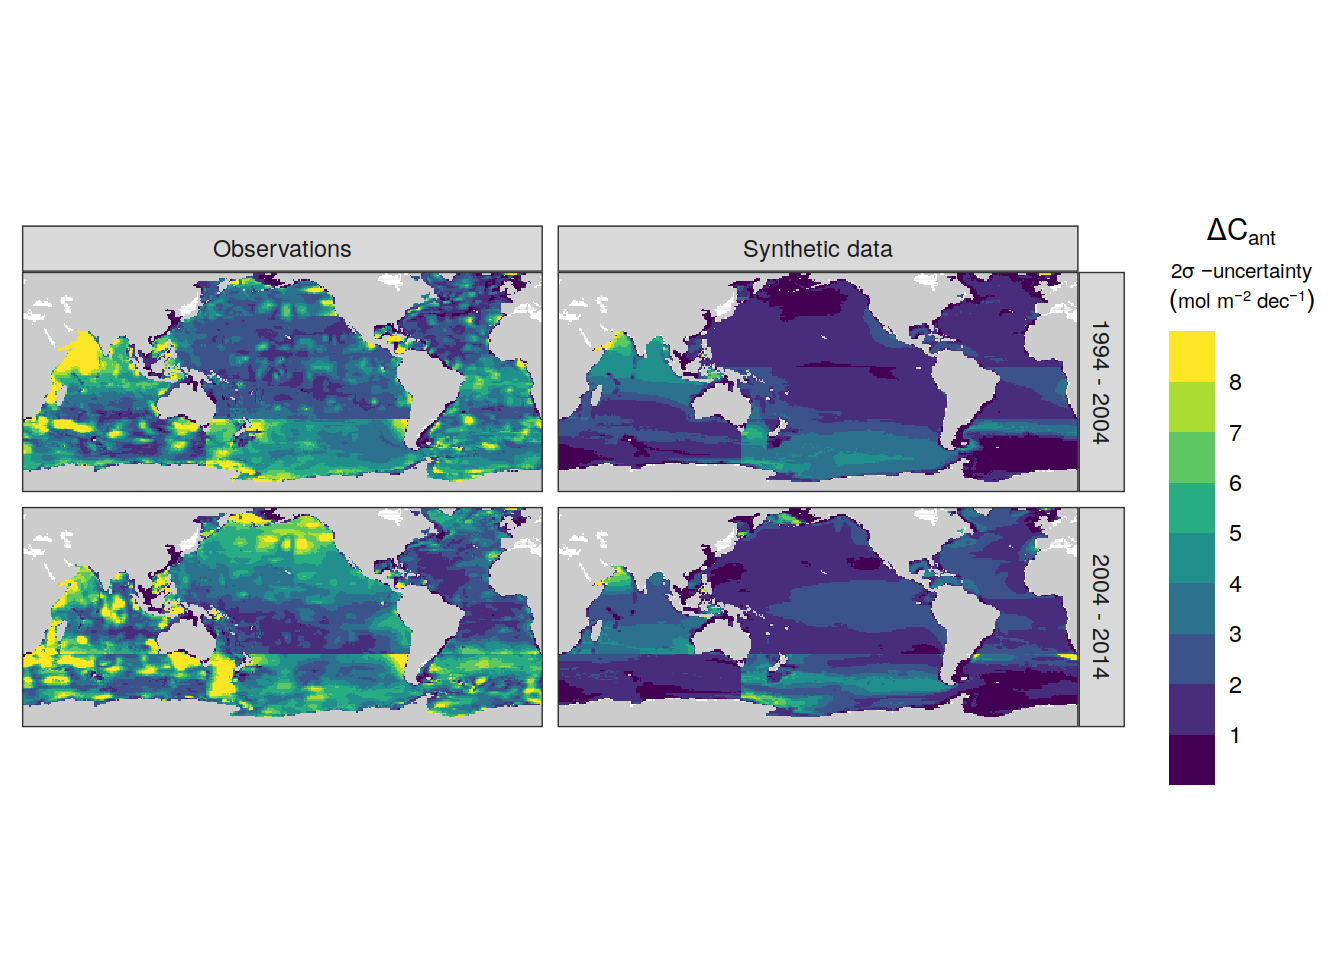
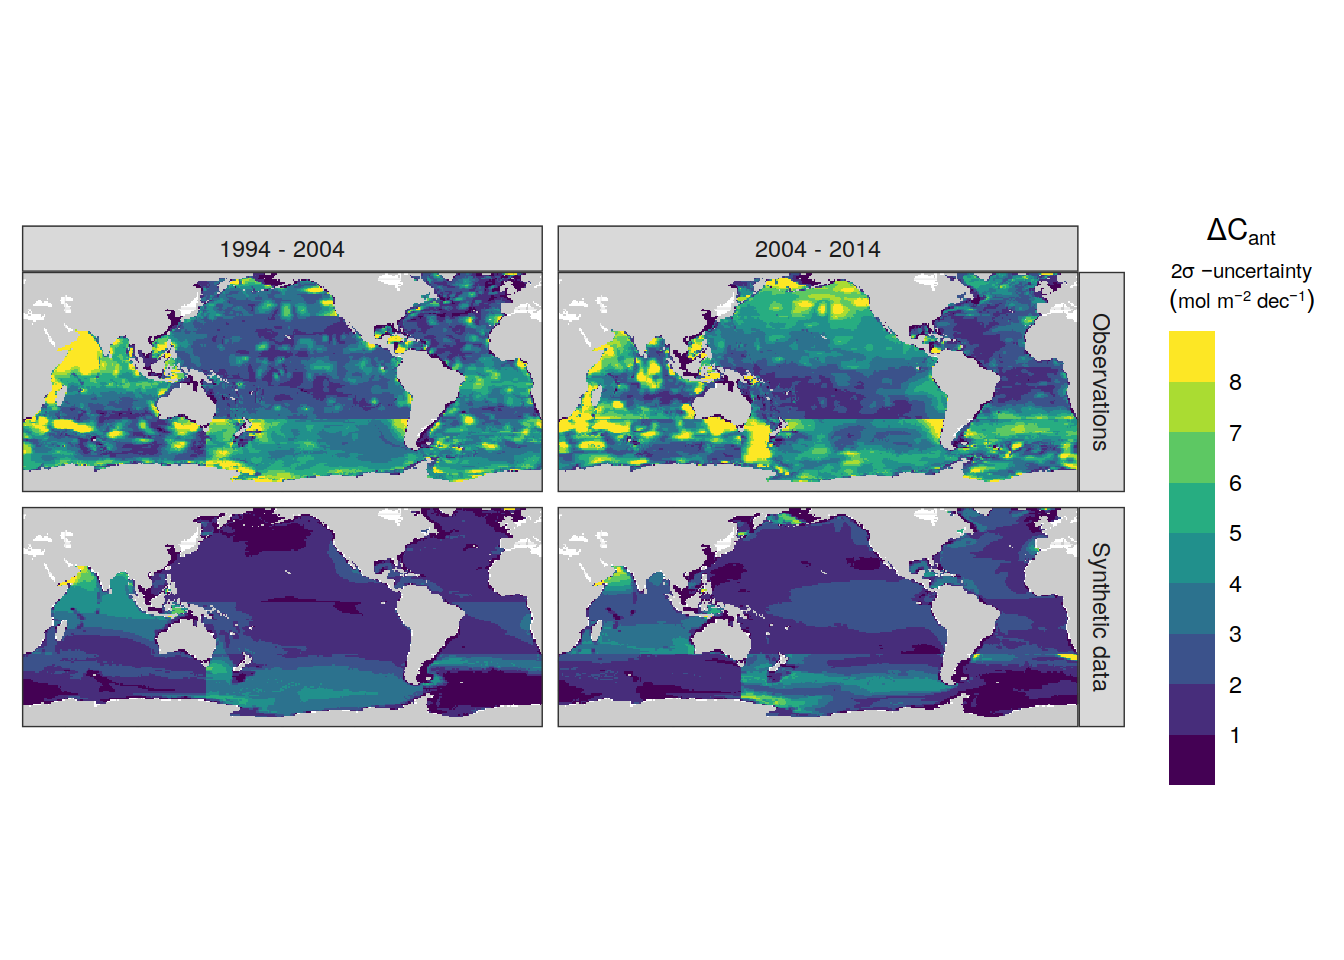
Build site.

diff --git a/docs/results_publication.html b/docs/results_publication.html
@@ -869,15 +869,15 @@ project makes it easier to run your code on other machines.</p>
 <div class="panel panel-default">
 <div class="panel-heading">
 <p class="panel-title">
-<a data-toggle="collapse" data-parent="#workflowr-checks" href="#strongRepositoryversionstrongahrefhttpsgithubcomjensdanielmuelleremlrobsanalysistree71e9efe9c0897f9ea809ff36e48a16f0fe4b48f1targetblank71e9efea">
+<a data-toggle="collapse" data-parent="#workflowr-checks" href="#strongRepositoryversionstrongahrefhttpsgithubcomjensdanielmuelleremlrobsanalysistreea56474cc28333f26fba0a887f823e0b94373ab63targetblanka56474ca">
 <span class="glyphicon glyphicon-ok text-success"
 aria-hidden="true"></span> <strong>Repository version:</strong>
-<a href="https://github.com/jens-daniel-mueller/emlr_obs_analysis/tree/71e9efe9c0897f9ea809ff36e48a16f0fe4b48f1" target="_blank">71e9efe</a>
+<a href="https://github.com/jens-daniel-mueller/emlr_obs_analysis/tree/a56474cc28333f26fba0a887f823e0b94373ab63" target="_blank">a56474c</a>
 </a>
 </p>
 </div>
 <div
[2 lines of base64/hex data omitted]
 class="panel-collapse collapse">
 <div class="panel-body">
 <p>
@@ -887,7 +887,7 @@ reproducibility.
 </p>
 <p>
 The results in this page were generated with repository version
-<a href="https://github.com/jens-daniel-mueller/emlr_obs_analysis/tree/71e9efe9c0897f9ea809ff36e48a16f0fe4b48f1" target="_blank">71e9efe</a>.
+<a href="https://github.com/jens-daniel-mueller/emlr_obs_analysis/tree/a56474cc28333f26fba0a887f823e0b94373ab63" target="_blank">a56474c</a>.
 See the <em>Past versions</em> tab to see a history of the changes made
 to the R Markdown and HTML files.
 </p>
@@ -963,6 +963,40 @@ Message
 </tr>
 </thead>
 <tbody>
+<tr>
+<td>
+Rmd
+</td>
+<td>
+<a href="https://github.com/jens-daniel-mueller/emlr_obs_analysis/blob/a56474cc28333f26fba0a887f823e0b94373ab63/analysis/results_publication.Rmd" target="_blank">a56474c</a>
+</td>
+<td>
+jens-daniel-mueller
+</td>
+<td>
+2022-11-17
+</td>
+<td>
+new emissions uncertainty
+</td>
+</tr>
+<tr>
+<td>
+html
+</td>
+<td>
+<a href="https://rawcdn.githack.com/jens-daniel-mueller/emlr_obs_analysis/f39bfd49afe8c3ec4b0285e75f1e7620b19a3a4e/docs/results_publication.html" target="_blank">f39bfd4</a>
+</td>
+<td>
+jens-daniel-mueller
+</td>
+<td>
+2022-11-17
+</td>
+<td>
+Build site.
+</td>
+</tr>
 <tr>
 <td>
 Rmd
@@ -9146,7 +9180,7 @@ dcant_inv_uncertainty %&gt;%
   p_map_cant_inv(var = &quot;sd&quot;,
                  breaks = c(seq(0, 8, 1), Inf),
                  title_text = NULL) +
-  facet_grid(period ~ data_source) +
+  facet_grid(data_source ~ period) +
   theme(axis.text = element_blank(),
         axis.ticks = element_blank())</code></pre>
 <p><img src="figure/results_publication.Rmd/column_inventory_additive_uncertainty_fine_grid-1.png" width="672" style="display: block; margin: auto;" /></p>
@@ -23164,6 +23198,17 @@ Date
 <tbody>
 <tr>
 <td>
+<a href="https://github.com/jens-daniel-mueller/emlr_obs_analysis/blob/f39bfd49afe8c3ec4b0285e75f1e7620b19a3a4e/docs/figure/results_publication.Rmd/dcant_inventory_uncertainty_components-1.png" target="_blank">f39bfd4</a>
+</td>
+<td>
+jens-daniel-mueller
+</td>
+<td>
+2022-11-17
+</td>
+</tr>
+<tr>
+<td>
 <a href="https://github.com/jens-daniel-mueller/emlr_obs_analysis/blob/e924c80d3cd23075320d6bea7ebf2e7851d96251/docs/figure/results_publication.Rmd/dcant_inventory_uncertainty_components-1.png" target="_blank">e924c80</a>
 </td>
 <td>
@@ -37015,7 +37060,7 @@ dev.off()</code></pre>
 dcant_per_emissions &lt;- left_join(GCB_Cant_emissions,
           tcant_ts_zoom) %&gt;%
   mutate(
-    cant_emissions_sd_rel = 0.05,
+    cant_emissions_sd_rel = 0.09,
     dcant_sd_rel = dcant_sd_int / dcant_mean,
     dcant_per_emissions_sd_rel = sqrt(dcant_sd_rel^2 + cant_emissions_sd_rel^2),
     dcant_per_emissions = 100 * dcant_mean / cant_emissions,
@@ -37070,7 +37115,7 @@ dcant_per_emissions_sd
 35.41663
 </td>
 <td style="text-align:right;">
-6.299557
+6.834377
 </td>
 </tr>
 <tr>
@@ -37090,7 +37135,7 @@ dcant_per_emissions_sd
 26.85997
 </td>
 <td style="text-align:right;">
-4.637358
+5.054231
 </td>
 </tr>
 </tbody>
@@ -37102,8 +37147,8 @@ dcant_per_emissions_sd
 <pre><code># A tibble: 2 × 8
    year cant_emissions dcant_mean dcant_sd dcant_per_emissions dcant_per_emissi…
   &lt;dbl&gt;          &lt;dbl&gt;      &lt;dbl&gt;    &lt;dbl&gt;               &lt;dbl&gt;             &lt;dbl&gt;
-1  2004           82.7       29.3     5.00                35.4              6.30
-2  2014          102.        27.3     6.74                26.9              4.64
+1  2004           82.7       29.3     5.00                35.4              6.83
+2  2014          102.        27.3     6.74                26.9              5.05
 # … with 2 more variables: delta_dcant_per_emissions &lt;dbl&gt;,
 #   delta_dcant_per_emissions_sd &lt;dbl&gt;</code></pre>
 <div id="map-test-color-palettes" class="section level4"

diff --git a/docs/basics.html b/docs/basics.html
@@ -706,7 +706,7 @@ div.tocify {
 
 <h1 class="title toc-ignore">Basics</h1>
 <h4 class="author">Jens Daniel Müller</h4>
-<h4 class="date">14 November, 2022</h4>
+<h4 class="date">17 November, 2022</h4>
 
 </div>
 
@@ -735,7 +735,7 @@ class="glyphicon glyphicon-ok text-success" aria-hidden="true"></span>
 <div class="tab-content">
 <div id="summary" class="tab-pane fade in active">
 <p>
-<strong>Last updated:</strong> 2022-11-14
+<strong>Last updated:</strong> 2022-11-17
 </p>
 <p>
 <strong>Checks:</strong> <span
@@ -867,15 +867,15 @@ project makes it easier to run your code on other machines.</p>
 <div class="panel panel-default">
 <div class="panel-heading">
 <p class="panel-title">
-<a data-toggle="collapse" data-parent="#workflowr-checks" href="#strongRepositoryversionstrongahrefhttpsgithubcomjensdanielmuelleremlrobsanalysistree40f357d08533c7cf3c122fbb844db91402401c30targetblank40f357da">
+<a data-toggle="collapse" data-parent="#workflowr-checks" href="#strongRepositoryversionstrongahrefhttpsgithubcomjensdanielmuelleremlrobsanalysistreea56474cc28333f26fba0a887f823e0b94373ab63targetblanka56474ca">
 <span class="glyphicon glyphicon-ok text-success"
 aria-hidden="true"></span> <strong>Repository version:</strong>
-<a href="https://github.com/jens-daniel-mueller/emlr_obs_analysis/tree/40f357d08533c7cf3c122fbb844db91402401c30" target="_blank">40f357d</a>
+<a href="https://github.com/jens-daniel-mueller/emlr_obs_analysis/tree/a56474cc28333f26fba0a887f823e0b94373ab63" target="_blank">a56474c</a>
 </a>
 </p>
 </div>
 <div
[2 lines of base64/hex data omitted]
 class="panel-collapse collapse">
 <div class="panel-body">
 <p>
@@ -885,7 +885,7 @@ reproducibility.
 </p>
 <p>
 The results in this page were generated with repository version
-<a href="https://github.com/jens-daniel-mueller/emlr_obs_analysis/tree/40f357d08533c7cf3c122fbb844db91402401c30" target="_blank">40f357d</a>.
+<a href="https://github.com/jens-daniel-mueller/emlr_obs_analysis/tree/a56474cc28333f26fba0a887f823e0b94373ab63" target="_blank">a56474c</a>.
 See the <em>Past versions</em> tab to see a history of the changes made
 to the R Markdown and HTML files.
 </p>
@@ -960,6 +960,23 @@ Message
 </tr>
 </thead>
 <tbody>
+<tr>
+<td>
+html
+</td>
+<td>
+<a href="https://rawcdn.githack.com/jens-daniel-mueller/emlr_obs_analysis/375300e4dac4c295c619c4c478ba15597cfec724/docs/basics.html" target="_blank">375300e</a>
+</td>
+<td>
+jens-daniel-mueller
+</td>
+<td>
+2022-11-14
+</td>
+<td>
+Build site.
+</td>
+</tr>
 <tr>
 <td>
 html

diff --git a/docs/index.html b/docs/index.html
@@ -785,15 +785,15 @@ project makes it easier to run your code on other machines.</p>
 <div class="panel panel-default">
 <div class="panel-heading">
 <p class="panel-title">
-<a data-toggle="collapse" data-parent="#workflowr-checks" href="#strongRepositoryversionstrongahrefhttpsgithubcomjensdanielmuelleremlrobsanalysistree71e9efe9c0897f9ea809ff36e48a16f0fe4b48f1targetblank71e9efea">
+<a data-toggle="collapse" data-parent="#workflowr-checks" href="#strongRepositoryversionstrongahrefhttpsgithubcomjensdanielmuelleremlrobsanalysistreea56474cc28333f26fba0a887f823e0b94373ab63targetblanka56474ca">
 <span class="glyphicon glyphicon-ok text-success"
 aria-hidden="true"></span> <strong>Repository version:</strong>
-<a href="https://github.com/jens-daniel-mueller/emlr_obs_analysis/tree/71e9efe9c0897f9ea809ff36e48a16f0fe4b48f1" target="_blank">71e9efe</a>
+<a href="https://github.com/jens-daniel-mueller/emlr_obs_analysis/tree/a56474cc28333f26fba0a887f823e0b94373ab63" target="_blank">a56474c</a>
 </a>
 </p>
 </div>
 <div
[2 lines of base64/hex data omitted]
 class="panel-collapse collapse">
 <div class="panel-body">
 <p>
@@ -803,7 +803,7 @@ reproducibility.
 </p>
 <p>
 The results in this page were generated with repository version
-<a href="https://github.com/jens-daniel-mueller/emlr_obs_analysis/tree/71e9efe9c0897f9ea809ff36e48a16f0fe4b48f1" target="_blank">71e9efe</a>.
+<a href="https://github.com/jens-daniel-mueller/emlr_obs_analysis/tree/a56474cc28333f26fba0a887f823e0b94373ab63" target="_blank">a56474c</a>.
 See the <em>Past versions</em> tab to see a history of the changes made
 to the R Markdown and HTML files.
 </p>
@@ -878,6 +878,23 @@ Message
 </tr>
 </thead>
 <tbody>
+<tr>
+<td>
+html
+</td>
+<td>
+<a href="https://rawcdn.githack.com/jens-daniel-mueller/emlr_obs_analysis/f39bfd49afe8c3ec4b0285e75f1e7620b19a3a4e/docs/index.html" target="_blank">f39bfd4</a>
+</td>
+<td>
+jens-daniel-mueller
+</td>
+<td>
+2022-11-17
+</td>
+<td>
+Build site.
+</td>
+</tr>
 <tr>
 <td>
 html
